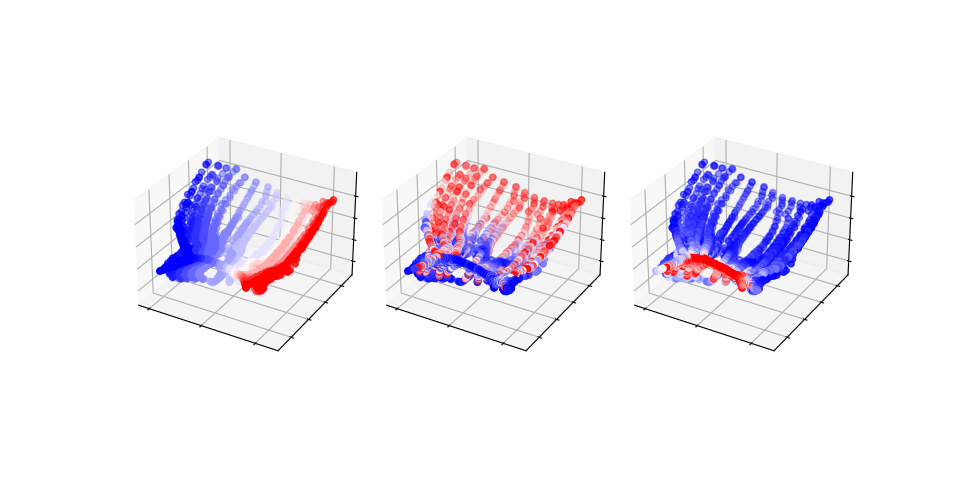
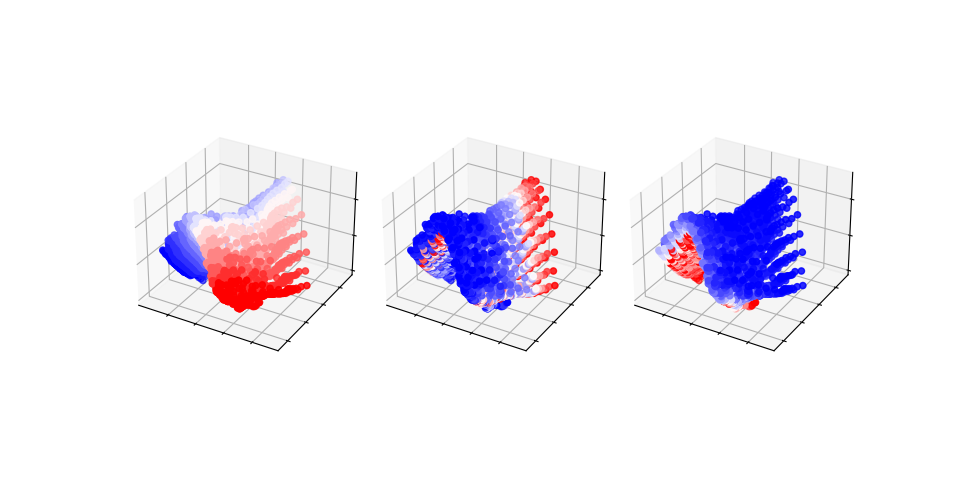
isomap update

Changed region(s): [[0.125, 0.3125, 0.375, 0.7188], [0.6562, 0.3125, 0.875, 0.7188], [0.4062, 0.3125, 0.625, 0.7188]]

diff --git a/scripts/isomap.py b/scripts/isomap.py
@@ -61,7 +61,8 @@ def extract_time_scattering(audio, duration, sr, **ts_kwargs):
                         T=N,
                         Q=1,
                         # Q=8,
-                        J=12).cuda()
+                        pad_mode='zero',
+                        J=int(np.log2(N) - 1),).cuda()
     
     X = torch.tensor(audio).cuda()
     n_samples = X.shape[0]
@@ -80,9 +81,11 @@ def extract_jtfs(audio, duration, sr, **jtfs_kwargs):
         shape=(N, ),
         T=N,
         Q=8,
-        J=12,
-        max_pad_factor=1, 
-        max_pad_factor_fr=1).cuda()
+        J=int(np.log2(N) - 1),
+        max_pad_factor=3, 
+        max_pad_factor_fr=3,
+        pad_mode_fr='zero',
+        pad_mode='zero').cuda()
     X = torch.tensor(audio).cuda()
     n_samples, n_paths = X.shape[0], jtfs(X[0]).shape[1]
     sx = torch.zeros(n_samples, n_paths)
@@ -230,15 +233,15 @@ def run_isomap(
     
     audio, cmap = generate_audio(f0s, fms, gammas, duration, sr)
 
-    # mfcc = extract_mfcc(audio, f0s, fms, gammas, sr)
+    mfcc = extract_mfcc(audio, f0s, fms, gammas, sr)
     ts = extract_time_scattering(audio.reshape(-1, audio.shape[-1]), duration, sr)
     jtfs = extract_jtfs(audio.reshape(-1, audio.shape[-1]), duration, sr)    
-    # ol3 = extract_openl3(audio.reshape(-1, audio.shape[-1]), sr)
-    # strf = extract_strf(audio.reshape(-1, audio.shape[-1]), duration, sr)
+    ol3 = extract_openl3(audio.reshape(-1, audio.shape[-1]), sr)
+    strf = extract_strf(audio.reshape(-1, audio.shape[-1]), duration, sr)
 
-    # X = {"MFCC": mfcc, "TS": ts, "JTFS": jtfs, "OPEN-L3": ol3, "STRF": strf}
+    X = {"MFCC": mfcc, "TS": ts, "JTFS": jtfs, "OPEN-L3": ol3, "STRF": strf}
     # X = {"MFCC": mfcc, "TS": ts, "JTFS": jtfs}
-    X = {"TS": ts, "JTFS": jtfs}
+    # X = {"TS": ts, "JTFS": jtfs}
 
     run_isomaps(X, cmap, out_dir)
 
